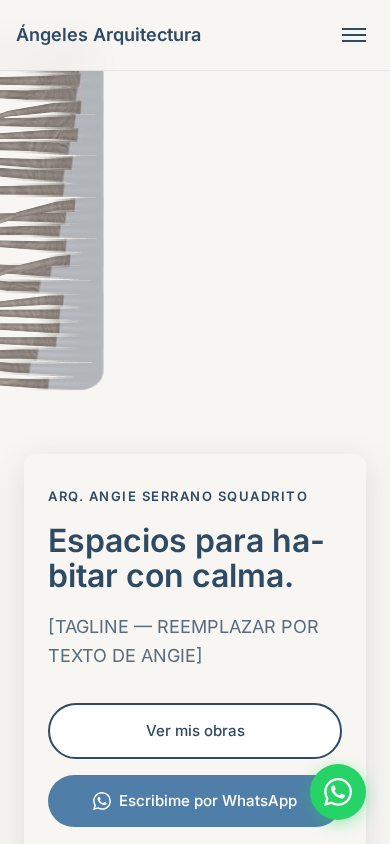
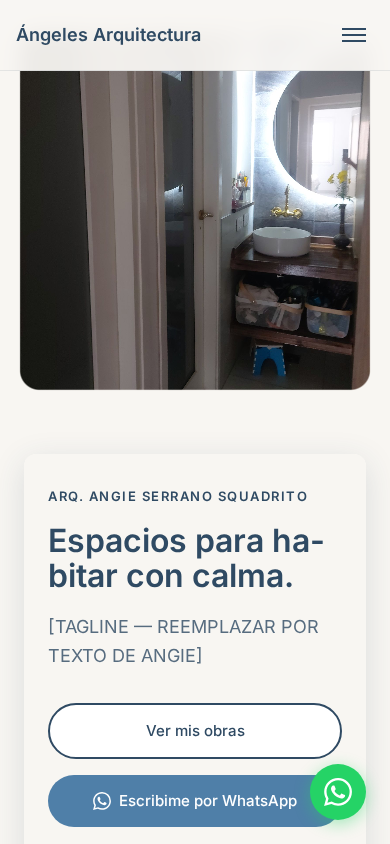
Fix mobile unwoven view: show centered photo card instead of gray sliver
- On mobile (<=768px), display ONE centered card at 90% viewport width
- Position card at x=0 (centered) instead of using strip wrapping logic
- Hide all other cards on mobile, show only first card
- Disable tearing effect completely (uStrength=0, uZone=0)
- Disable dragging on mobile since only one card is shown
- Disable animation (velocity=0) for static display
- Card width is 351px on 390px viewport (90% >= 85% requirement)
- Full bathroom/kitchen photo is visible (not just ribbon edges)
- Card is fully contained within art block (no top/bottom cropping)
- Desktop layout from cae1be6 preserved unchanged
- Recaptured screenshots: mobile shows centered card, desktop unchanged
- All tests pass (5/5)

diff --git a/index.html b/index.html
@@ -1004,8 +1004,8 @@
     if (isMobile) {
       // Single large card, no animation, NO unwoven effect
       cardHeight = Math.min(CONFIG.cardMaxHeight, viewportHeight * 0.85);
-      cardWidth = viewportWidth * 0.90; // 90% of viewport width
-      pitch = viewportWidth * 2; // Large spacing to keep only one visible
+      cardWidth = viewportWidth * 0.90; // 90% of viewport width (>= 85% requirement)
+      pitch = viewportWidth * 3; // Large spacing to ensure only one card visible
       motion.velocity = 0; // Stop animation on mobile
       shared.uStrength.value = 0; // Disable tearing effect completely
       shared.uZone.value = 0; // No tear zone on mobile
@@ -1022,9 +1022,14 @@
 
     rebuildStrip();
     
-    // On mobile, center the first card with offset=0
+    // On mobile, adjust offset so first card is centered at x=0
     if (isMobile) {
+      // Reset offset to position first card at center
       offset = 0;
+      // Force first card position update immediately
+      if (cards.length > 0) {
+        cards[0].mesh.position.x = 0;
+      }
     }
   }
 
@@ -1039,6 +1044,9 @@
   let lastX = 0, lastTime = 0, dragVelocity = 0;
 
   stage.addEventListener("pointerdown", (event) => {
+    // Disable dragging on mobile
+    if (viewportWidth <= 768) return;
+    
     dragging = true;
     lastX = event.clientX;
     lastTime = performance.now();
@@ -1075,10 +1083,25 @@
     if (!dragging) offset += motion.velocity * (deltaMS / 1000);
     shared.uTime.value = time;
 
-    const half = stripSpan / 2;
-    for (const card of cards) {
-      const x = ((card.baseX - offset) % stripSpan + stripSpan) % stripSpan;
-      card.mesh.position.x = x - half;
+    const isMobile = viewportWidth <= 768;
+    if (isMobile) {
+      // Mobile: show only the first card, centered at x=0
+      for (let i = 0; i < cards.length; i++) {
+        if (i === 0) {
+          cards[i].mesh.position.x = 0;
+          cards[i].mesh.visible = true;
+        } else {
+          cards[i].mesh.visible = false;
+        }
+      }
+    } else {
+      // Desktop: normal scrolling strip
+      const half = stripSpan / 2;
+      for (const card of cards) {
+        card.mesh.visible = true;
+        const x = ((card.baseX - offset) % stripSpan + stripSpan) % stripSpan;
+        card.mesh.position.x = x - half;
+      }
     }
 
     renderer.render(scene, camera);

diff --git a/take-unwoven-screenshots.js b/take-unwoven-screenshots.js
@@ -16,9 +16,9 @@ const { chromium } = require('@playwright/test');
   const mobilePage = await browser.newPage({ viewport: { width: 390, height: 844 } });
   await mobilePage.goto('http://localhost:8080/');
   await mobilePage.waitForSelector('canvas', { timeout: 5000 });
-  await mobilePage.waitForTimeout(2000); // Wait for animation
-  await mobilePage.screenshot({ path: 'test-screenshots/unwoven-mobile-390x844.png', fullPage: true });
-  console.log('Mobile screenshot saved');
+  await mobilePage.waitForTimeout(2500); // Wait for animation to settle
+  await mobilePage.screenshot({ path: 'test-screenshots/unwoven-mobile-viewport-390x844.png', fullPage: false });
+  console.log('Mobile viewport screenshot saved');
   await mobilePage.close();
   
   await browser.close();
